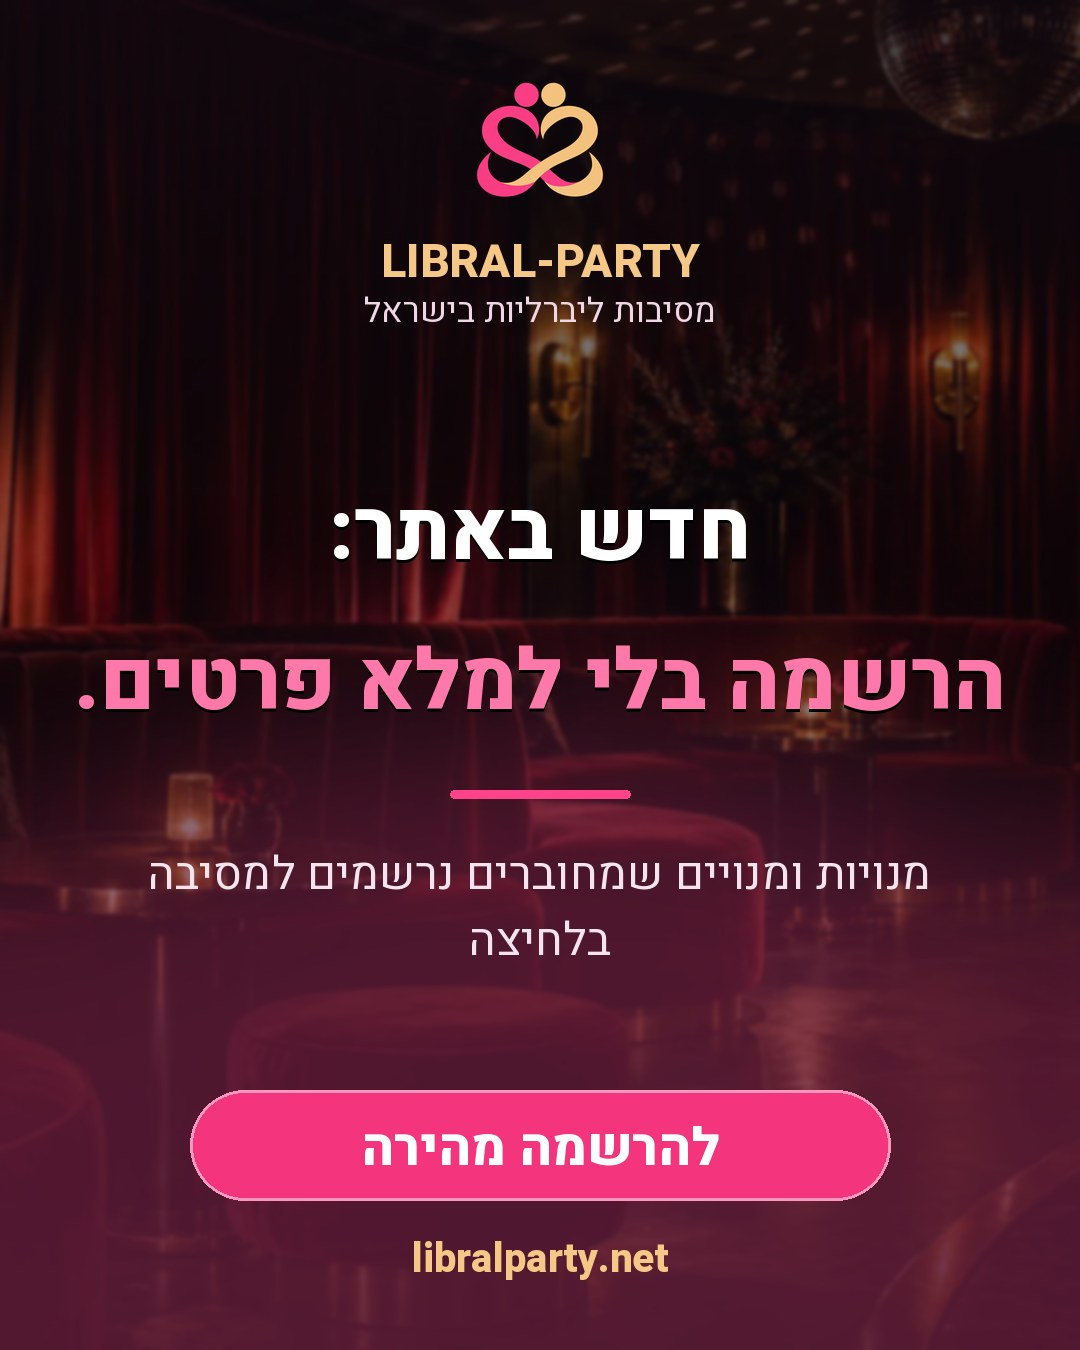
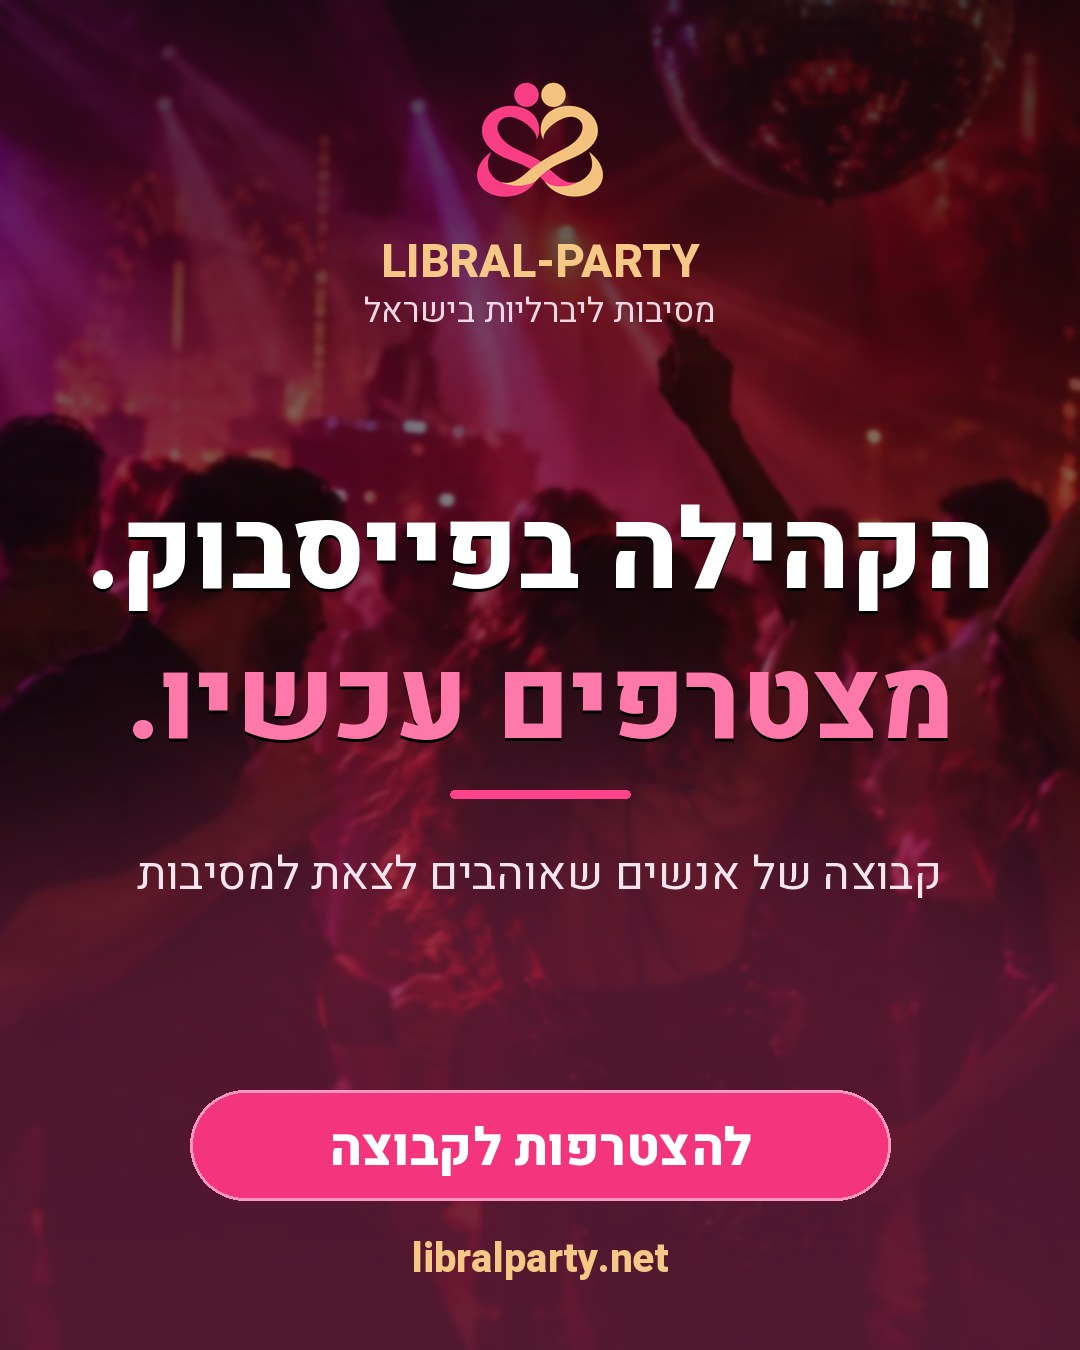
חמישה קמפיינים חדשים בערוץ למשיכת קהל לקבוצות ולאתר, ובראש הרוטציה
Claude-Session: https://claude.ai/code/session_01MnETpxBKVPfyu1WyzPnxXv

diff --git a/shared/telegramCampaigns.js b/shared/telegramCampaigns.js
@@ -1,99 +1,124 @@
 // Generated by scripts/campaigns/make_campaigns.py — do not edit by hand.
-export const TELEGRAM_CAMPAIGNS_VERSION = "2026-10";
+export const TELEGRAM_CAMPAIGNS_VERSION = "2026-10-21";
 export const TELEGRAM_CAMPAIGNS = [
   {
     "id": "c01",
     "image": "https://www.libralparty.net/assets/campaigns/c01.jpg",
-    "caption": "📲 חדש באתר: התראות ישירות לנייד!\nמאשרים התראות פעם אחת, ומקבלים עדכון ברגע שנמצא לכם איזון ובכל פעם שעולה מסיבה חדשה.\n\n👇 נכנסים לאתר ומאשרים התראות:\nhttps://www.libralparty.net/"
+    "caption": "💬 הקבוצה שלנו בוואטסאפ!\nמסיבות חדשות ועדכונים, ישר לנייד. מצטרפים בלחיצה.\n\n👇 להצטרפות לקבוצה:\nhttps://chat.whatsapp.com/LHo4Spoy73b38mDI5XEcF7"
   },
   {
     "id": "c02",
     "image": "https://www.libralparty.net/assets/campaigns/c02.jpg",
-    "caption": "⚡ חדש באתר: הרשמה מהירה!\nמנויים שמחוברים לא צריכים להקליד שוב שם וטלפון — בוחרים מסיבה, ונרשמים.\n\n👇 לוחצים ונרשמים:\nhttps://www.libralparty.net/events"
+    "caption": "👥 הקבוצה שלנו בפייסבוק!\nמסיבות, חדשות מהקהילה והכרויות. מצטרפים ורואים הכל ראשונים.\n\n👇 להצטרפות לקבוצה:\nhttps://www.facebook.com/share/g/1D7ng47o28/"
   },
   {
     "id": "c03",
     "image": "https://www.libralparty.net/assets/campaigns/c03.jpg",
-    "caption": "👤 חדש באתר: אזור אישי מלא!\nאפשר לערוך שם, להחליף סיסמה ותמונה, לראות את ההרשמות שלכם ולדעת מתי יש לכם איזון.\n\n👇 נכנסים לאזור האישי:\nhttps://www.libralparty.net/my-area"
+    "caption": "📸 עוקבים אחרינו באינסטגרם!\nתמונות, מסיבות חדשות וחדשות מהקהילה, בכל יום.\n\n👇 לעמוד שלנו:\nhttps://www.instagram.com/liberl_party/"
   },
   {
     "id": "c04",
     "image": "https://www.libralparty.net/assets/campaigns/c04.jpg",
-    "caption": "💗 חדש באתר: מועדפים!\nלוחצים על הלב ליד מסיבה, והיא נשמרת באזור האישי. מסיבות נוספות של אותו מפיק מופיעות שם גם הן.\n\n👇 בוחרים מסיבות:\nhttps://www.libralparty.net/events"
+    "caption": "🤝 תביאו חברים והקהילה גדלה!\nשולחים להם את הקישור, והם מצטרפים לקבוצות ולמסיבות שלנו.\n\n👇 הקישור לשליחה:\nhttps://www.libralparty.net/"
   },
   {
     "id": "c05",
     "image": "https://www.libralparty.net/assets/campaigns/c05.jpg",
-    "caption": "✨ האתר התחדש!\nעיצוב חדש, טעינה מהירה בהרבה ותצוגה נוחה גם במחשב.\n\n👇 בואו להתרשם:\nhttps://www.libralparty.net/"
+    "caption": "🌐 מצטרפים אלינו בכל מקום!\nהאתר, קבוצת הוואטסאפ, קבוצת הפייסבוק והאינסטגרם. בוחרים מה נוח לכם.\n\n👇 כניסה לאתר וכל הקישורים:\nhttps://www.libralparty.net/"
   },
   {
     "id": "c06",
     "image": "https://www.libralparty.net/assets/campaigns/c06.jpg",
-    "caption": "💎 רוצים מנוי? זה המקום שלכם!\n✅ איזון מגדרי למסיבות\n✅ התראות ישירות לנייד על איזון ועל מסיבות חדשות\n✅ מועדפים ואזור אישי מלא\n✅ הרשמה מהירה בלחיצה\n\nכל המנויים והמחירים באתר 👇\nhttps://www.libralparty.net/membership"
+    "caption": "📲 חדש באתר: התראות ישירות לנייד!\nמאשרים התראות פעם אחת, ומקבלים עדכון ברגע שנמצא לכם איזון ובכל פעם שעולה מסיבה חדשה.\n\n👇 נכנסים לאתר ומאשרים התראות:\nhttps://www.libralparty.net/"
   },
   {
     "id": "c07",
     "image": "https://www.libralparty.net/assets/campaigns/c07.jpg",
-    "caption": "⏰ סוף השבוע מתקרב, וחבל לפספס איזון!\nאפשר להירשם לאיזון מגדרי דרך האתר בכל שעה.\n\n👇 כל המסיבות באתר:\nhttps://www.libralparty.net/events"
+    "caption": "⚡ חדש באתר: הרשמה מהירה!\nמנויים שמחוברים לא צריכים להקליד שוב שם וטלפון — בוחרים מסיבה, ונרשמים.\n\n👇 לוחצים ונרשמים:\nhttps://www.libralparty.net/events"
   },
   {
     "id": "c08",
     "image": "https://www.libralparty.net/assets/campaigns/c08.jpg",
-    "caption": "🔥 מסיבות חדשות עלו עכשיו לאתר!\nכל התאריכים, המקומות וההרשמה, הכל במקום אחד.\n\n👇 מה מתאים לכם הלילה?\nhttps://www.libralparty.net/events"
+    "caption": "👤 חדש באתר: אזור אישי מלא!\nאפשר לערוך שם, להחליף סיסמה ותמונה, לראות את ההרשמות שלכם ולדעת מתי יש לכם איזון.\n\n👇 נכנסים לאזור האישי:\nhttps://www.libralparty.net/my-area"
   },
   {
     "id": "c09",
     "image": "https://www.libralparty.net/assets/campaigns/c09.jpg",
-    "caption": "🤝 סינגלים, המנוי הוא הדרך שלכם לאיזון!\nמקבלים התאמה למסיבה, ורואים באזור האישי עם מי אתם מאוזנים.\n\n👇 בוחרים מנוי ומצטרפים:\nhttps://www.libralparty.net/membership"
+    "caption": "💗 חדש באתר: מועדפים!\nלוחצים על הלב ליד מסיבה, והיא נשמרת באזור האישי. מסיבות נוספות של אותו מפיק מופיעות שם גם הן.\n\n👇 בוחרים מסיבות:\nhttps://www.libralparty.net/events"
   },
   {
     "id": "c10",
     "image": "https://www.libralparty.net/assets/campaigns/c10.jpg",
-    "caption": "💑 זוגות, ההרשמה למסיבה לוקחת דקה!\nבוחרים מסיבה, ממלאים פרטים ומגיעים ליהנות.\n\n👇 מסיבות פתוחות להרשמה:\nhttps://www.libralparty.net/events"
+    "caption": "✨ האתר התחדש!\nעיצוב חדש, טעינה מהירה בהרבה ותצוגה נוחה גם במחשב.\n\n👇 בואו להתרשם:\nhttps://www.libralparty.net/"
   },
   {
     "id": "c11",
     "image": "https://www.libralparty.net/assets/campaigns/c11.jpg",
-    "caption": "✨ פחות שגרה, יותר לילה!\nהמסיבה הבאה שלכם כבר מחכה באתר.\n\n👇 לוחצים ונרשמים:\nhttps://www.libralparty.net/events"
+    "caption": "💎 רוצים מנוי? זה המקום שלכם!\n✅ איזון מגדרי למסיבות\n✅ התראות ישירות לנייד על איזון ועל מסיבות חדשות\n✅ מועדפים ואזור אישי מלא\n✅ הרשמה מהירה בלחיצה\n\nכל המנויים והמחירים באתר 👇\nhttps://www.libralparty.net/membership"
   },
   {
     "id": "c12",
     "image": "https://www.libralparty.net/assets/campaigns/c12.jpg",
-    "caption": "🩶 קהילה מכבדת, חיבורים מעניינים.\nמרחב של חופש ושל כבוד הדדי, להכיר, לרקוד ולצאת מהרגיל.\n\n👇 קצת עלינו:\nhttps://www.libralparty.net/about"
+    "caption": "⏰ סוף השבוע מתקרב, וחבל לפספס איזון!\nאפשר להירשם לאיזון מגדרי דרך האתר בכל שעה.\n\n👇 כל המסיבות באתר:\nhttps://www.libralparty.net/events"
   },
   {
     "id": "c13",
     "image": "https://www.libralparty.net/assets/campaigns/c13.jpg",
-    "caption": "🔥 מנוי מסיבות סווינגרס!\nגישה למסיבות הסווינגרס של הקהילה, עם איזון, התראות ואזור אישי.\n\n👇 לפרטים ולהצטרפות:\nhttps://www.libralparty.net/membership"
+    "caption": "🔥 מסיבות חדשות עלו עכשיו לאתר!\nכל התאריכים, המקומות וההרשמה, הכל במקום אחד.\n\n👇 מה מתאים לכם הלילה?\nhttps://www.libralparty.net/events"
   },
   {
     "id": "c14",
     "image": "https://www.libralparty.net/assets/campaigns/c14.jpg",
-    "caption": "📅 כל המסיבות בלוח אחד!\nמפנים מקום ביומן ובוחרים את הלילה הבא.\n\n👇 ללוח האירועים:\nhttps://www.libralparty.net/calendar"
+    "caption": "🤝 סינגלים, המנוי הוא הדרך שלכם לאיזון!\nמקבלים התאמה למסיבה, ורואים באזור האישי עם מי אתם מאוזנים.\n\n👇 בוחרים מנוי ומצטרפים:\nhttps://www.libralparty.net/membership"
   },
   {
     "id": "c15",
     "image": "https://www.libralparty.net/assets/campaigns/c15.jpg",
-    "caption": "📣 מפיקים, מעוניינים לפרסם את המסיבה שלכם?\nנרשמים כמפרסמים, מעלים את המסיבה, והיא מופיעה באתר ובערוצים שלנו.\n\n👇 להרשמה כמפרסם:\nhttps://www.libralparty.net/advertiser-register"
+    "caption": "💑 זוגות, ההרשמה למסיבה לוקחת דקה!\nבוחרים מסיבה, ממלאים פרטים ומגיעים ליהנות.\n\n👇 מסיבות פתוחות להרשמה:\nhttps://www.libralparty.net/events"
   },
   {
     "id": "c16",
     "image": "https://www.libralparty.net/assets/campaigns/c16.jpg",
-    "caption": "🖤 מנוי BDSM!\nגישה למסיבות BDSM בקהילה, באווירה מכבדת, עם איזון, התראות ואזור אישי.\n\n👇 לפרטים ולהצטרפות:\nhttps://www.libralparty.net/membership"
+    "caption": "✨ פחות שגרה, יותר לילה!\nהמסיבה הבאה שלכם כבר מחכה באתר.\n\n👇 לוחצים ונרשמים:\nhttps://www.libralparty.net/events"
   },
   {
     "id": "c17",
     "image": "https://www.libralparty.net/assets/campaigns/c17.jpg",
-    "caption": "🌙 הלילה הבא מתחיל כאן!\nמסיבות, איזונים וקהילה, הכל באתר LIBRAL PARTY.\n\n👇 כניסה לאתר:\nhttps://www.libralparty.net/"
+    "caption": "🩶 קהילה מכבדת, חיבורים מעניינים.\nמרחב של חופש ושל כבוד הדדי, להכיר, לרקוד ולצאת מהרגיל.\n\n👇 קצת עלינו:\nhttps://www.libralparty.net/about"
   },
   {
     "id": "c18",
     "image": "https://www.libralparty.net/assets/campaigns/c18.jpg",
-    "caption": "🙋 לא בטוחים איזה מנוי מתאים לכם?\nמשאירים שם וטלפון בדף המנויים, ואנחנו חוזרים אליכם ומסבירים הכל.\n\n👇 משאירים פרטים:\nhttps://www.libralparty.net/membership"
+    "caption": "🔥 מנוי מסיבות סווינגרס!\nגישה למסיבות הסווינגרס של הקהילה, עם איזון, התראות ואזור אישי.\n\n👇 לפרטים ולהצטרפות:\nhttps://www.libralparty.net/membership"
   },
   {
     "id": "c19",
     "image": "https://www.libralparty.net/assets/campaigns/c19.jpg",
+    "caption": "📅 כל המסיבות בלוח אחד!\nמפנים מקום ביומן ובוחרים את הלילה הבא.\n\n👇 ללוח האירועים:\nhttps://www.libralparty.net/calendar"
+  },
+  {
+    "id": "c20",
+    "image": "https://www.libralparty.net/assets/campaigns/c20.jpg",
+    "caption": "📣 מפיקים, מעוניינים לפרסם את המסיבה שלכם?\nנרשמים כמפרסמים, מעלים את המסיבה, והיא מופיעה באתר ובערוצים שלנו.\n\n👇 להרשמה כמפרסם:\nhttps://www.libralparty.net/advertiser-register"
+  },
+  {
+    "id": "c21",
+    "image": "https://www.libralparty.net/assets/campaigns/c21.jpg",
+    "caption": "🖤 מנוי BDSM!\nגישה למסיבות BDSM בקהילה, באווירה מכבדת, עם איזון, התראות ואזור אישי.\n\n👇 לפרטים ולהצטרפות:\nhttps://www.libralparty.net/membership"
+  },
+  {
+    "id": "c22",
+    "image": "https://www.libralparty.net/assets/campaigns/c22.jpg",
+    "caption": "🌙 הלילה הבא מתחיל כאן!\nמסיבות, איזונים וקהילה, הכל באתר LIBRAL PARTY.\n\n👇 כניסה לאתר:\nhttps://www.libralparty.net/"
+  },
+  {
+    "id": "c23",
+    "image": "https://www.libralparty.net/assets/campaigns/c23.jpg",
+    "caption": "🙋 לא בטוחים איזה מנוי מתאים לכם?\nמשאירים שם וטלפון בדף המנויים, ואנחנו חוזרים אליכם ומסבירים הכל.\n\n👇 משאירים פרטים:\nhttps://www.libralparty.net/membership"
+  },
+  {
+    "id": "c24",
+    "image": "https://www.libralparty.net/assets/campaigns/c24.jpg",
     "caption": "🌟 חבל להישאר בחוץ!\nמצטרפים לקהילה של מסיבות, איזונים וחיבורים מעניינים.\n\n👇 בוחרים מנוי:\nhttps://www.libralparty.net/membership"
   }
 ];

diff --git a/scripts/campaigns/make_campaigns.py b/scripts/campaigns/make_campaigns.py
@@ -21,6 +21,17 @@ BG = {
 
 # id, background, headline lines (last line is highlighted), subline, button text, page, caption
 CAMPAIGNS = [
+    # Join the community (first in the rotation, so the new pool starts with them)
+    ("g1", "social", ["הקבוצה שלנו", "בוואטסאפ."], "מסיבות חדשות ועדכונים, ישר לנייד", "להצטרפות לקבוצה", "https://chat.whatsapp.com/LHo4Spoy73b38mDI5XEcF7",
+     "💬 הקבוצה שלנו בוואטסאפ!\nמסיבות חדשות ועדכונים, ישר לנייד. מצטרפים בלחיצה.\n\n👇 להצטרפות לקבוצה:"),
+    ("g2", "dance", ["הקהילה בפייסבוק.", "מצטרפים עכשיו."], "קבוצה של אנשים שאוהבים לצאת למסיבות", "להצטרפות לקבוצה", "https://www.facebook.com/share/g/1D7ng47o28/",
+     "👥 הקבוצה שלנו בפייסבוק!\nמסיבות, חדשות מהקהילה והכרויות. מצטרפים ורואים הכל ראשונים.\n\n👇 להצטרפות לקבוצה:"),
+    ("g3", "lounge", ["עוקבים אחרינו", "באינסטגרם."], "תמונות, מסיבות חדשות וחדשות מהקהילה", "לעמוד באינסטגרם", "https://www.instagram.com/liberl_party/",
+     "📸 עוקבים אחרינו באינסטגרם!\nתמונות, מסיבות חדשות וחדשות מהקהילה, בכל יום.\n\n👇 לעמוד שלנו:"),
+    ("g4", "pool", ["תביאו חברים.", "הקהילה גדלה."], "שולחים את הקישור לחברים ומצטרפים ביחד", "כניסה לאתר", "/",
+     "🤝 תביאו חברים והקהילה גדלה!\nשולחים להם את הקישור, והם מצטרפים לקבוצות ולמסיבות שלנו.\n\n👇 הקישור לשליחה:"),
+    ("g5", "social", ["מצטרפים אלינו", "בכל מקום."], "אתר, וואטסאפ, פייסבוק ואינסטגרם: בוחרים איפה נוח", "כניסה לאתר", "/",
+     "🌐 מצטרפים אלינו בכל מקום!\nהאתר, קבוצת הוואטסאפ, קבוצת הפייסבוק והאינסטגרם. בוחרים מה נוח לכם.\n\n👇 כניסה לאתר וכל הקישורים:"),
     # What's new on the site (first in the rotation, so the news goes out first)
     ("c01", "dance", ["חדש באתר:", "התראה ישירות לנייד."], "איזון ומסיבות חדשות — מקבלים עדכון לנייד", "לאתר ולהפעלת התראות", "/",
      "📲 חדש באתר: התראות ישירות לנייד!\nמאשרים התראות פעם אחת, ומקבלים עדכון ברגע שנמצא לכם איזון ובכל פעם שעולה מסיבה חדשה.\n\n👇 נכנסים לאתר ומאשרים התראות:"),
@@ -160,10 +171,10 @@ def main():
     for n, (_, bg, head, sub, btn, page, caption) in enumerate(CAMPAIGNS, 1):
         cid = f"c{n:02d}"
         size = make(cid, bg, head, sub, btn, page)
-        url = f"{SITE}{page}"
+        url = page if page.startswith("http") else f"{SITE}{page}"
         items.append({"id": cid, "image": f"{SITE}/assets/campaigns/{cid}.jpg", "caption": f"{caption}\n{url}"})
         print(cid, size // 1024, "KB")
-    version = datetime.date.today().strftime("%Y-%m")  # a new month's pool starts again from its first campaign
+    version = datetime.date.today().isoformat()  # a new month's pool starts again from its first campaign
     js = "// Generated by scripts/campaigns/make_campaigns.py — do not edit by hand.\nexport const TELEGRAM_CAMPAIGNS_VERSION = " + json.dumps(version) + ";\nexport const TELEGRAM_CAMPAIGNS = " + json.dumps(items, ensure_ascii=False, indent=2) + ";\n"
     open(os.path.join(ROOT, "shared/telegramCampaigns.js"), "w", encoding="utf-8").write(js)
 
